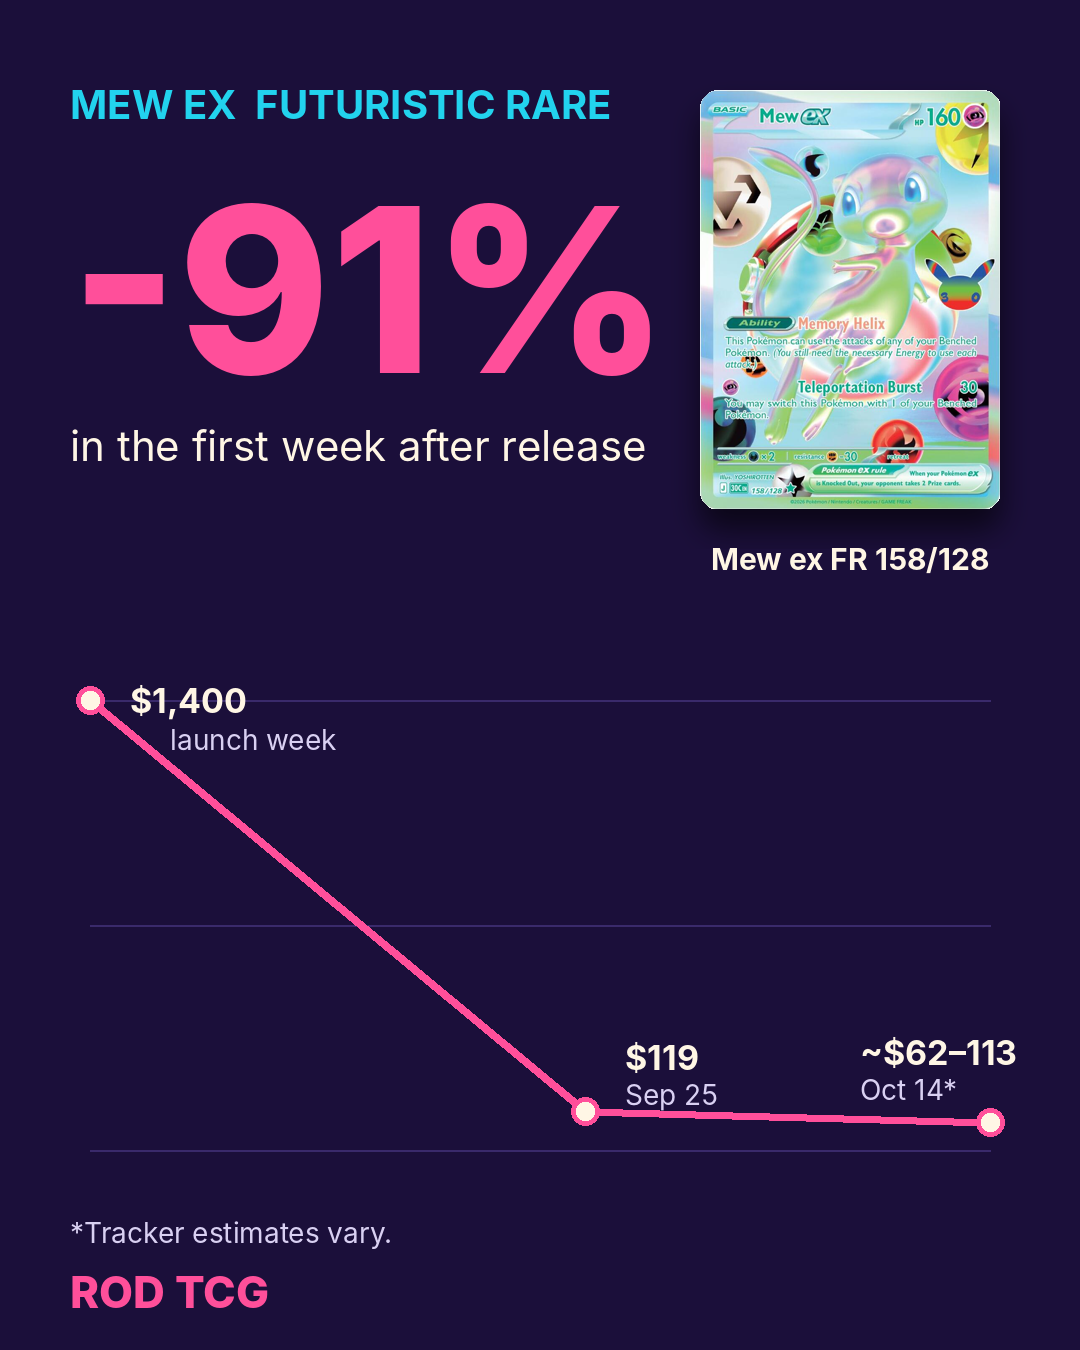
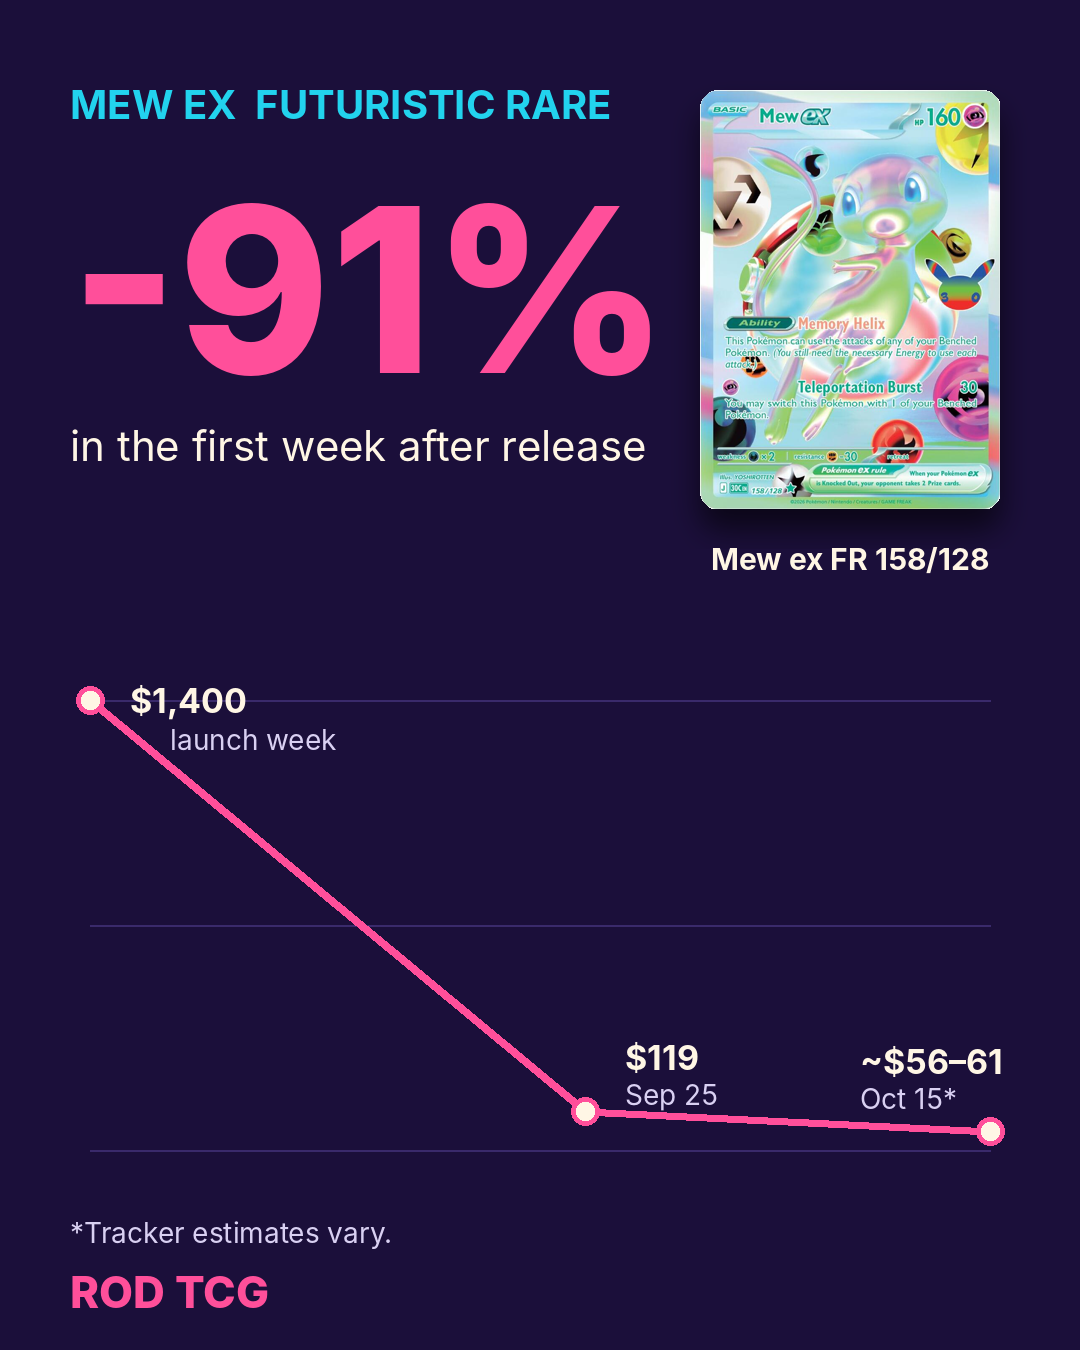
Refresh Oct 17 Mew chart: ~$56-61 as of Oct 15
Claude-Session: https://claude.ai/code/session_01AbpK2xhDtpd5Stvm6RtD4Y

Changed region(s): [[0.6417, 0.7467, 0.9472, 0.84]]

diff --git a/scripts/build_chart.py b/scripts/build_chart.py
@@ -13,7 +13,7 @@ d.text((70,150),"-91%",font=f("Inter-ExtraBold.otf",230),fill=PINK)
 d.text((70,420),"in the first week after release",font=f("Inter-Regular.otf",42),fill=CR)
 # chart
 x0,x1,y0,y1=90,990,700,1150
-pts=[(0,1400),(0.55,119),(1,87)]
+pts=[(0,1400),(0.55,119),(1,58)]
 def P(x,v): return (x0+x*(x1-x0), y1-(v/1400)*(y1-y0))
 for g in (0,.5,1): d.line([(x0,y1-g*(y1-y0)),(x1,y1-g*(y1-y0))],fill=(58,42,107),width=2)
 xy=[P(a,b) for a,b in pts]
@@ -22,7 +22,7 @@ for (x,y) in xy: d.ellipse([x-14,y-14,x+14,y+14],fill=CR,outline=PINK,width=5)
 lf=f("Inter-Bold.otf",34);sf=f("Inter-Regular.otf",28)
 d.text((xy[0][0]+40,xy[0][1]-20),"$1,400",font=lf,fill=CR);d.text((xy[0][0]+80,xy[0][1]+22),"launch week",font=sf,fill=LAV);d.text((xy[0][0]+40,xy[0][1]+22),"",font=sf)
 d.text((xy[1][0]+40,xy[1][1]-75),"$119",font=lf,fill=CR);d.text((xy[1][0]+40,xy[1][1]-35),"Sep 25",font=sf,fill=LAV)
-d.text((xy[2][0]-130,xy[2][1]-90),"~$62–113",font=lf,fill=CR);d.text((xy[2][0]-130,xy[2][1]-50),"Oct 14*",font=sf,fill=LAV)
+d.text((xy[2][0]-130,xy[2][1]-90),"~$56–61",font=lf,fill=CR);d.text((xy[2][0]-130,xy[2][1]-50),"Oct 15*",font=sf,fill=LAV)
 # card
 c=Image.open("assets/mew_ex_158_128.png").convert("RGBA")
 c=c.resize((300,419));
